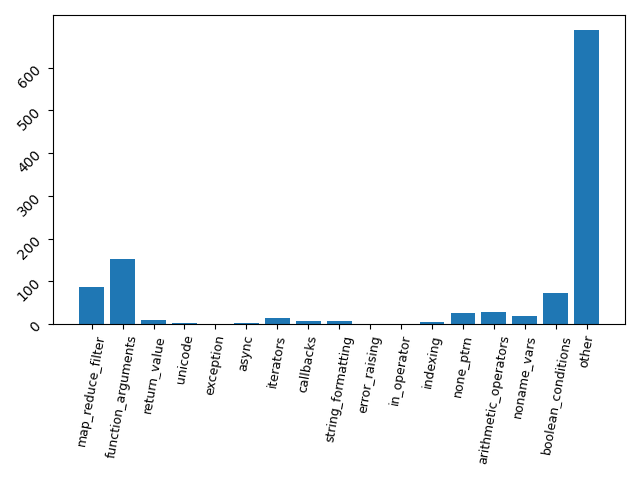
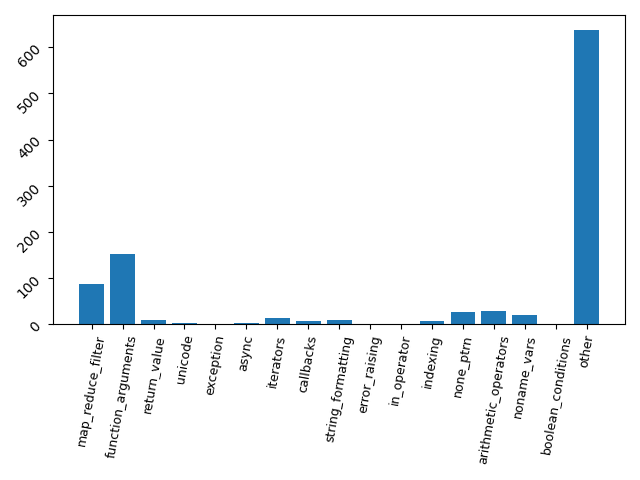
changing regexes + moving the text files to inner folder and deleting them when the script starts

diff --git a/lambda_processor.py b/lambda_processor.py
@@ -21,15 +21,13 @@ ALL_PATTERN = "((.*?)lambda (.*?):(.*?)\n)"
 CALLBACK_PATTERN = r"((.*?)[c|C]allback(.*?)lambda(.*?)\n)"
 STRING_FORMATTING_PATTERN = "((.*?)lambda([^\\(#\\,\\=\\[\\)]*?)str\\((.*?)\n)"
 ERROR_RAISING_PATTERN = "((.*?)lambda([^#\\(\\)\\.\\_\\,]*?)error(.*?)\n)"
-IN_OPERATOR_PATTERN = r"((.*?)lambda\s*(\w+)\s?\,?\s?(\w+)*:\s*\w*\s*in(.*?)\n)"
+IN_OPERATOR_PATTERN = "((.*?)lambda\\s(\\w+):\\s+(in|isin)\\s(.*?)\n)"
 INNER_LAMBDA_PATTERN = "((.*?)lambda(.*?):(.*?)in lambda(.*?):(.*?)\n)"
-INDEXING_PATTERN = r"((.*?)lambda\s*(\w+)\s?\,?\s?(\w+)*:\s*([^(]*?|\2|\3)\[(.*?)\n)"
+INDEXING_PATTERN = "((.*?)lambda\\s(\\w+):\\s?\\[(.*?)\n)"
 NONE_PATTERN = "((.*?)lambda(.*?):\\s?None(.*?)\n)"
-ARITHMETIC_OPERATIONS_1_PATTERN = "((.*?)lambda\\s(\\w+):([^\\(\'\"#\\)]*?)(\\w?)[\\+|\\/|\\*|\\-](\\w?)(.*?)\n)"
-ARITHMETIC_OPERATIONS_2_PATTERN = r"((.*?)lambda\s*(\w+)\s?\,?\s?(\w+)*:\s*(\2|\3|\w*)\s*[\+|\/|\*|\-]\s*(\2|\3|\w*)(.*?)\n)"
-NONAME_VAR_PATTERN = r"((.*?)lambda\s*_\n)"
-BOOL_COND_PATTERN = r"((.*?)lambda\s*(\w+)\s*(\,\s?\w+)*:(.*)(<|==|!=|>|<=|=<|=>|>=)(.*?)\n)"
-FUNCTION_CALL_PATTERN = r"((.*?)lambda\s*(\w+)\s?\,?\s?(\w+)*:(\s*\w*)[\(](.*?)\n)"
+ARITHMETIC_OPERATIONS_PATTERN = "((.*?)lambda\\s(\\w+):([^\\(\'\"#\\)]*?)(\\w?)[\\+|\\/|\\*|\\-](\\w?)(.*?)\n)"
+NONAME_VAR_PATTERN = "((.*?)lambda [\\*\\_]?_:(.*?)\n)"
+BOOL_COND_PATTERN = "((.*?)lambda\\s(\\w+):(\\s?(True|False)|([^\\(,\\)#]*?)(<|==|!=|>|<=|=<|=>|>=))(.*?)\n)"
 
 
 def process_lambda_exp_single_file(python_filename):
@@ -44,7 +42,7 @@ def process_lambda_exp_single_file(python_filename):
     print(f"processing file: {python_filename}")
     with open(python_filename, "r", encoding="utf-8") as f:
         python_file_text = f.read()
-        num_lambda_in_file = len(re.findall(r"lambda (.*?):", python_file_text))
+        num_lambda_in_file = len(re.findall(ALL_PATTERN, python_file_text))
         dict_types = {}
         if num_lambda_in_file > 0:
             dict_types = count_usages_of_lambda_expressions(python_file_text)
@@ -72,10 +70,9 @@ def count_usages_of_lambda_expressions(python_file_text):
     in_operator_find_all = [x[0] for x in re.findall(IN_OPERATOR_PATTERN, python_file_text)]
     indexing_find_all = [x[0] for x in re.findall(INDEXING_PATTERN, python_file_text)]
     none_ptrn_find_all = [x[0] for x in re.findall(NONE_PATTERN, python_file_text)]
-    arithmetic_operators_find_all = [x[0] for x in re.findall(ARITHMETIC_OPERATIONS_1_PATTERN, python_file_text)]
-    arithmetic_operators_find_all.extend([x[0] for x in re.findall(ARITHMETIC_OPERATIONS_2_PATTERN, python_file_text)])
+    arithmetic_operators_find_all = [x[0] for x in re.findall(ARITHMETIC_OPERATIONS_PATTERN, python_file_text)]
     noname_vars_find_all = [x[0] for x in re.findall(NONAME_VAR_PATTERN, python_file_text)]
-    boolean_conditions_find_all = [x[0] for x in re.findall(BOOL_COND_PATTERN, python_file_text)]
+    boolean_conditions_find_all = []
     dict_types_to_find_all_res = {
         "map_reduce_filter": map_filter_reduce_find_all,
         "function_arguments": function_arguments_find_all,
@@ -95,7 +92,7 @@ def count_usages_of_lambda_expressions(python_file_text):
         "boolean_conditions": boolean_conditions_find_all
     }
     dict_types_to_counts = {k: len(v) for k, v in dict_types_to_find_all_res.items()}
-    all_lambdas_find_all = re.findall(ALL_PATTERN, python_file_text)[0]
+    all_lambdas_find_all = [x[0] for x in re.findall(ALL_PATTERN, python_file_text)]
     all_lambdas_types_occurrences = itertools.chain(map_filter_reduce_find_all, function_arguments_find_all,
                                                     return_value_find_all, unicode_find_all, exception_find_all,
                                                     async_find_all, iterators_find_all,
@@ -110,12 +107,12 @@ def count_usages_of_lambda_expressions(python_file_text):
                                                     boolean_conditions_find_all)
     # compute the set minus of all the lambdas occurrences and the specific usages
     # we defined earlier in the code, to find the "other" category
-    all_lambdas_other = set(all_lambdas_find_all) - set(all_lambdas_types_occurrences)
+    all_lambdas_other = [x for x in all_lambdas_find_all if x not in all_lambdas_types_occurrences]
     for key in dict_types_to_find_all_res.keys():
-        with open(f"./lambdas_{key}.txt", "a") as f:
+        with open(f"./lambdas_types_text_files/lambdas_{key}.txt", "a") as f:
             f.writelines("\n".join(dict_types_to_find_all_res[key]))
     all_lambdas_types_count = sum(dict_types_to_counts.values())
-    with open(f"./lambdas_other.txt", "a") as f:
+    with open(f"./lambdas_types_text_files/lambdas_other.txt", "a") as f:
         f.writelines("\n".join(all_lambdas_other))
     dict_types_to_counts["other"] = len(all_lambdas_find_all) - all_lambdas_types_count
     return dict_types_to_counts
@@ -394,7 +391,9 @@ def process_all_python_files_in_parallel(repos_parent_folder):
     # get all the python files from all the repositories
     repos_folders = [folder for folder in glob.glob(r'{}/*'.format(repos_parent_folder))]
     repos_folders = repos_folders[:100]
-    files = [f for repo_folder in repos_folders for f in glob.glob(r'{}/**/*.py'.format(repo_folder))]
+    files = [(filename, get_repository_dir_name(filename, 1, 1), get_repository_dir_name(filename, 0, 1))
+             for repo_folder in repos_folders
+             for filename in glob.glob(r'{}/**/*.py'.format(repo_folder))]
     lambdas_counts_in_files = 0
     # initialize a thread pool to do the calculation of the lambda statistics in each of the python
     # files in parallel
@@ -403,9 +402,7 @@ def process_all_python_files_in_parallel(repos_parent_folder):
         future_to_filename = \
             {
                 executor.submit(process_lambda_exp_single_file, filename):
-                    (filename,
-                     get_repository_dir_name(filename, 1, 1),
-                     get_repository_dir_name(filename, 0, 1)) for filename in files
+                    (filename, repository_name, repository_path) for filename, repository_name, repository_path in files
             }
         # for each of the futures, check if it finished and then take
         # the dictionary of lambdas statistics and merge it into the large dictionary
@@ -416,7 +413,7 @@ def process_all_python_files_in_parallel(repos_parent_folder):
                 all_files_dict_types[(filename, repository_name, repository_path)] = (dict_types, num_lambda_in_file,
                                                                                       num_of_code_lines)
             except Exception as exc:
-                traceback.print_exc()
+                # traceback.print_exc()
                 print('%r generated an exception: %s' % (filename, exc))
         # terminate all the futures and shutdown the thread pool
         for future in future_to_filename:
@@ -427,6 +424,10 @@ def process_all_python_files_in_parallel(repos_parent_folder):
 
 def main():
     # read the containing the metadata of each repository
+    text_files_lambdas = [text_file_lambdas for text_file_lambdas in glob.glob(r"./lambdas_types_text_files/*.txt")]
+    for text_file_lambdas in text_files_lambdas:
+        if os.path.exists(text_file_lambdas):
+            os.remove(text_file_lambdas)
     df_repos_props = pd.read_csv("./repos_props.csv")
     # process all the .py files in each repository
     all_files_dict_types = process_all_python_files_in_parallel("./pythonReposForMethods")
